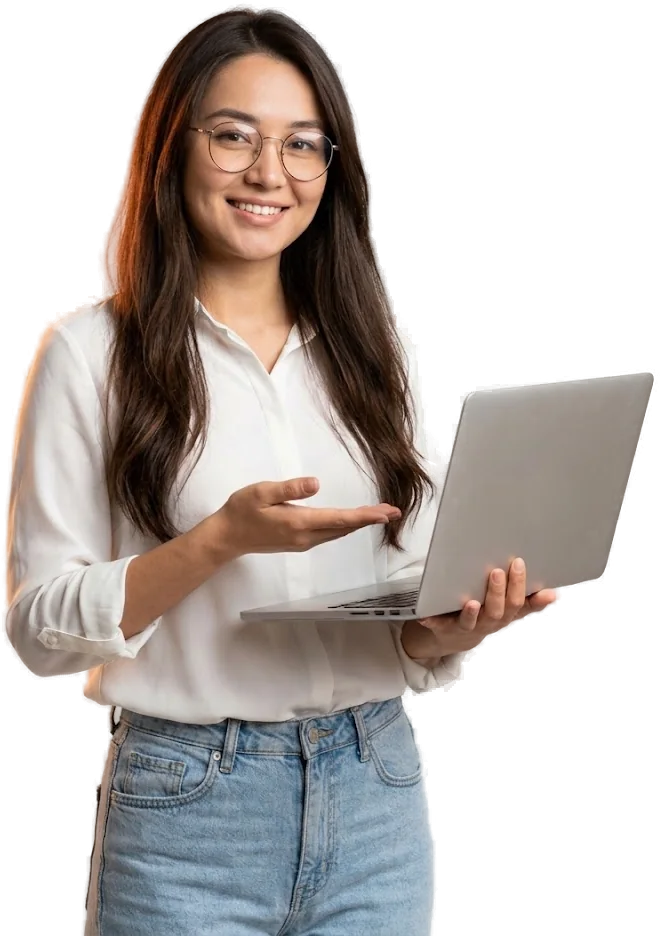
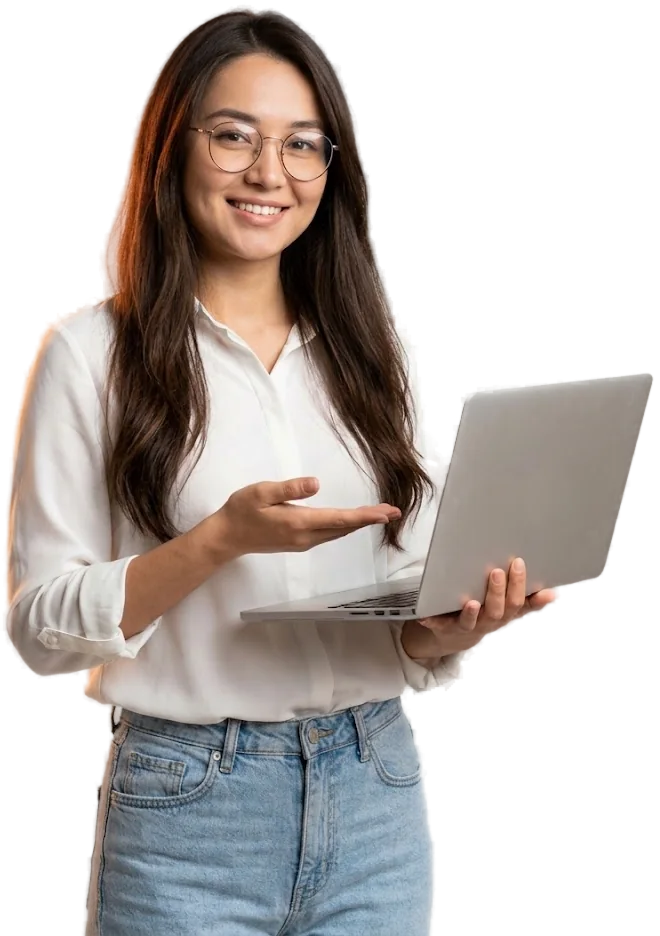
Tungi rejim: localStorage + head skript (flash-siz), AA tuzatishlari, eski sahifalar apelsin brendga
Claude-Session: https://claude.ai/code/session_01J31zVCzvuUTuogWdhEBF7M

diff --git a/src/app/globals.css b/src/app/globals.css
@@ -1,7 +1,7 @@
 @import "tailwindcss";
 
 /*
- * Dizayn tizimi: neytral asos + bitta urg'u rangi (brend teal), bitta burchak radiusi (8px).
+ * Eski dizayn tizimi: neytral asos + bitta urg'u rangi (endi apelsin, --ds-* bilan bir xil), bitta burchak radiusi (8px).
  * Yorug' rejim standart. Tungi rejim: tizim sozlamasi yoki data-theme="dark" (cookie orqali).
  * Barcha matn juftliklari WCAG AA (4.5:1) dan yuqori.
  */
@@ -13,9 +13,10 @@
   --foreground: #161716;
   --muted: #5f6b74;
   --border: #e3e3dd;
-  --brand: #0f766e;
-  --brand-strong: #0b5f58;
-  --brand-soft: #e3f1ef;
+  /* Eski sahifalar (kabinet, auth, admin) ham yangi apelsin brendga oʻtadi; oq matn bilan AA (5.6:1). */
+  --brand: #b4420e;
+  --brand-strong: #963709;
+  --brand-soft: #ffe8da;
   --brand-foreground: #ffffff;
 }
 
@@ -23,16 +24,16 @@
 @media (prefers-color-scheme: dark) {
   :root:not([data-theme="light"]) {
     color-scheme: dark;
-    --background: #111312;
+    --background: #0e1215;
     --surface: #171c20;
     --surface-muted: #1e2120;
     --foreground: #ecece8;
     --muted: #9aa5ad;
     --border: #2c2f2d;
-    --brand: #2dd4bf;
-    --brand-strong: #5eead4;
-    --brand-soft: #12332f;
-    --brand-foreground: #0b1513;
+    --brand: #ff7a3d;
+    --brand-strong: #ff9361;
+    --brand-soft: #3a2216;
+    --brand-foreground: #14232a;
 
     /* Ilova ichidagi holat ranglari tungi fonda o'qiladigan bo'lishi uchun. */
     --color-red-50: #2a1515;
@@ -64,16 +65,16 @@
 
 :root[data-theme="dark"] {
   color-scheme: dark;
-  --background: #111312;
+  --background: #0e1215;
   --surface: #171c20;
   --surface-muted: #1e2120;
   --foreground: #ecece8;
   --muted: #9aa5ad;
   --border: #2c2f2d;
-  --brand: #2dd4bf;
-  --brand-strong: #5eead4;
-  --brand-soft: #12332f;
-  --brand-foreground: #0b1513;
+  --brand: #ff7a3d;
+  --brand-strong: #ff9361;
+  --brand-soft: #3a2216;
+  --brand-foreground: #14232a;
 
   --color-red-50: #2a1515;
   --color-red-100: #3a1a1a;
@@ -204,7 +205,7 @@ body {
  *
  * Kontrast (WCAG AA) qarorlari:
  * - Oq matn #FF7A3D ustida 2.6:1, shuning uchun apelsin fondagi matn --on-primary (#14232A, 6.2:1).
- * - Oq fondagi apelsin matn uchun --primary-text (#C24A12, 4.9:1); tungi rejimda #FF7A3D (7.3:1).
+ * - Oq fondagi apelsin matn uchun --primary-text (#B4420E: oqda 5.6:1, yumshoq apelsin fonda 4.8:1); tungida #FF7A3D (7.3:1).
  * - Ikkilamchi matn #5F6B74: oq fonda 5.4:1, shaftoli fonda 5.0:1 (#6B7780 shaftolida 4.2:1 edi).
  *
  * Mavzu blok darajasida ham ishlaydi: data-theme="dark" yoki "light" istalgan elementga qoʻyilsa,
@@ -215,7 +216,7 @@ body {
   --ds-primary: #ff7a3d;
   --ds-primary-hover: #ff8f5c;
   --ds-on-primary: #14232a;
-  --ds-primary-text: #c24a12;
+  --ds-primary-text: #b4420e;
   --ds-primary-soft: #ffe8da;
   --ds-ink: #14232a;
   --ds-on-ink: #ffffff;
@@ -230,13 +231,14 @@ body {
   --ds-muted: #5f6b74;
   --ds-line: #ebe5df;
   --ds-violet: #7c5cff;
-  --ds-success: #15803d;
+  --ds-success: #13733a;
   --ds-success-soft: #e3f5e9;
-  --ds-warning: #a16207;
+  --ds-warning: #935a06;
   --ds-warning-soft: #fdf3d7;
   --ds-danger: #c2262b;
   --ds-danger-soft: #fde7e7;
   --ds-shadow-color: 20 35 42;
+  --ds-edge: transparent;
   --ds-glow: #ffd9c4;
 }
 
@@ -267,6 +269,7 @@ body {
     --ds-danger: #fca5a5;
     --ds-danger-soft: #3a1a1a;
     --ds-shadow-color: 0 0 0;
+    --ds-edge: rgb(255 255 255 / 0.06);
     --ds-glow: #4a2614;
   }
 }
@@ -298,6 +301,7 @@ body {
   --ds-danger: #fca5a5;
   --ds-danger-soft: #3a1a1a;
   --ds-shadow-color: 0 0 0;
+  --ds-edge: rgb(255 255 255 / 0.06);
   --ds-glow: #4a2614;
 }
 
@@ -340,11 +344,12 @@ body {
   --color-glow: var(--ds-glow);
 
   /* Yumshoq, past kontrastli soyalar. */
+  /* Tungi rejimda qora soya koʻrinmaydi: oʻrniga 1px yorugʻ chegara (--ds-edge) kartani ajratadi. */
   --shadow-soft:
-    0 1px 2px rgb(var(--ds-shadow-color) / 0.04),
+    0 0 0 1px var(--ds-edge), 0 1px 2px rgb(var(--ds-shadow-color) / 0.04),
     0 8px 24px -8px rgb(var(--ds-shadow-color) / 0.1);
   --shadow-float:
-    0 2px 6px rgb(var(--ds-shadow-color) / 0.05),
+    0 0 0 1px var(--ds-edge), 0 2px 6px rgb(var(--ds-shadow-color) / 0.05),
     0 24px 48px -16px rgb(var(--ds-shadow-color) / 0.18);
   --shadow-primary: 0 12px 28px -10px rgb(255 122 61 / 0.55);
 

diff --git a/src/app/[locale]/layout.tsx b/src/app/[locale]/layout.tsx
@@ -3,7 +3,7 @@ import "@fontsource-variable/source-serif-4";
 import "@fontsource-variable/inter";
 import "../globals.css";
 
-import type { Metadata } from "next";
+import type { Metadata, Viewport } from "next";
 import { cookies } from "next/headers";
 import { notFound } from "next/navigation";
 import { hasLocale } from "next-intl";
@@ -12,7 +12,7 @@ import { SiteFooter } from "@/components/site-footer";
 import { SiteHeader } from "@/components/site-header";
 import { ClientMessages } from "@/i18n/client-messages";
 import { routing } from "@/i18n/routing";
-import { THEME_COOKIE, parseTheme } from "@/lib/theme";
+import { THEME_COOKIE, THEME_INIT_SCRIPT, parseTheme } from "@/lib/theme";
 
 type Props = {
   children: React.ReactNode;
@@ -22,6 +22,14 @@ type Props = {
 export function generateStaticParams() {
   return routing.locales.map((locale) => ({ locale }));
 }
+
+export const viewport: Viewport = {
+  colorScheme: "light dark",
+  themeColor: [
+    { media: "(prefers-color-scheme: light)", color: "#ffffff" },
+    { media: "(prefers-color-scheme: dark)", color: "#0e1215" },
+  ],
+};
 
 export async function generateMetadata({ params }: Props): Promise<Metadata> {
   const { locale } = await params;
@@ -40,7 +48,12 @@ export default async function LocaleLayout({ children, params }: Props) {
   const theme = parseTheme((await cookies()).get(THEME_COOKIE)?.value);
 
   return (
-    <html lang={locale} data-theme={theme}>
+    // suppressHydrationWarning: <head> dagi skript data-theme ni React dan oldin oʻzgartirishi mumkin.
+    <html lang={locale} data-theme={theme} suppressHydrationWarning>
+      <head>
+        {/* Saqlangan rejim birinchi chizishdan oldin qoʻyiladi: miltillash yoʻq. */}
+        <script dangerouslySetInnerHTML={{ __html: THEME_INIT_SCRIPT }} />
+      </head>
       <body className="flex min-h-screen flex-col font-sans antialiased">
         <ClientMessages namespaces={[]}>
           <SiteHeader />

diff --git a/src/lib/theme.ts b/src/lib/theme.ts
@@ -1,8 +1,32 @@
-/** Rejim (yorug'/tungi) cookie si. Qiymat yo'q bo'lsa tizim sozlamasi ishlatiladi. */
+/**
+ * Rejim (yorugʻ/tungi). Tanlov ikki joyda saqlanadi:
+ * - localStorage (`THEME_STORAGE_KEY`): asosiy manba, <head> dagi skript birinchi chizishdan oldin oʻqiydi;
+ * - cookie (`THEME_COOKIE`): server HTML ga data-theme ni oldindan qoʻyadi (localStorage bloklangan boʻlsa ham miltillamaydi).
+ * Qiymat yoʻq boʻlsa tizim sozlamasi (prefers-color-scheme) CSS orqali ishlaydi.
+ */
 export const THEME_COOKIE = "theme";
+export const THEME_STORAGE_KEY = "jumis-theme";
 
 export type Theme = "light" | "dark";
 
-export function parseTheme(value: string | undefined): Theme | undefined {
+export function parseTheme(
+  value: string | null | undefined,
+): Theme | undefined {
   return value === "light" || value === "dark" ? value : undefined;
+}
+
+/** <head> ga qoʻyiladigan kichik skript: sahifa chizilishidan oldin saqlangan rejimni qoʻyadi. */
+export const THEME_INIT_SCRIPT = `(function(){try{var t=localStorage.getItem(${JSON.stringify(THEME_STORAGE_KEY)});if(t!=="light"&&t!=="dark")return;var r=document.documentElement;r.setAttribute("data-theme",t);r.style.colorScheme=t}catch(e){}})();`;
+
+/** Tanlangan rejimni qoʻllaydi va saqlaydi. localStorage ishlamasa (yashirin rejim, bloklangan) cookie yetarli. */
+export function applyTheme(theme: Theme) {
+  const root = document.documentElement;
+  root.dataset.theme = theme;
+  root.style.colorScheme = theme;
+  try {
+    localStorage.setItem(THEME_STORAGE_KEY, theme);
+  } catch {
+    // localStorage mavjud emas: faqat cookie.
+  }
+  document.cookie = `${THEME_COOKIE}=${theme}; path=/; max-age=31536000; samesite=lax`;
 }

diff --git a/src/components/theme-toggle.tsx b/src/components/theme-toggle.tsx
@@ -1,6 +1,12 @@
 "use client";
 
-import { THEME_COOKIE, type Theme } from "@/lib/theme";
+import { useEffect } from "react";
+import {
+  THEME_STORAGE_KEY,
+  applyTheme,
+  parseTheme,
+  type Theme,
+} from "@/lib/theme";
 
 /** `className` berilsa standart koʻrinish oʻrniga ishlatiladi. */
 type Props = { toDark: string; toLight: string; className?: string };
@@ -13,12 +19,25 @@ function currentTheme(): Theme {
     : "light";
 }
 
-/** Yorug'/tungi rejimni almashtiradi va tanlovni bir yilga cookie da saqlaydi. */
+/** Yorugʻ/tungi rejimni almashtiradi; tanlov localStorage va cookie da saqlanadi (`applyTheme`). */
 export function ThemeToggle({ toDark, toLight, className }: Props) {
+  // Boshqa oynada rejim almashsa, shu oyna ham ergashadi.
+  useEffect(() => {
+    const onStorage = (e: StorageEvent) => {
+      const theme =
+        e.key === THEME_STORAGE_KEY ? parseTheme(e.newValue) : undefined;
+      if (theme) {
+        document.documentElement.dataset.theme = theme;
+        document.documentElement.style.colorScheme = theme;
+      }
+    };
+    window.addEventListener("storage", onStorage);
+    return () => window.removeEventListener("storage", onStorage);
+  }, []);
+
   function onClick() {
     const next: Theme = currentTheme() === "dark" ? "light" : "dark";
-    document.documentElement.dataset.theme = next;
-    document.cookie = `${THEME_COOKIE}=${next}; path=/; max-age=31536000; samesite=lax`;
+    applyTheme(next);
   }
 
   return (

diff --git a/src/app/[locale]/design-system/page.tsx b/src/app/[locale]/design-system/page.tsx
@@ -95,7 +95,7 @@ const SWATCHES = [
 // Yorugʻ / tungi qiymatlar (globals.css bilan bir xil). Namuna jadvali uchun.
 const HEX: Record<(typeof SWATCHES)[number]["key"], [string, string]> = {
   primary: ["#FF7A3D", "#FF7A3D"],
-  primaryText: ["#C24A12", "#FF7A3D"],
+  primaryText: ["#B4420E", "#FF7A3D"],
   primarySoft: ["#FFE8DA", "#3A2216"],
   ink: ["#14232A", "#F2F4F5"],
   night: ["#14232A", "#080B0D"],
@@ -107,8 +107,8 @@ const HEX: Record<(typeof SWATCHES)[number]["key"], [string, string]> = {
   muted: ["#5F6B74", "#9AA5AD"],
   line: ["#EBE5DF", "#273038"],
   violet: ["#7C5CFF", "#8F74FF"],
-  success: ["#15803D", "#6EE7A0"],
-  warning: ["#A16207", "#FCD34D"],
+  success: ["#13733A", "#6EE7A0"],
+  warning: ["#935A06", "#FCD34D"],
   danger: ["#C2262B", "#FCA5A5"],
 };
 

diff --git a/CLAUDE.md b/CLAUDE.md
@@ -194,7 +194,7 @@ tests/                 Vitest integratsiya testlari
 
 - Namuna sahifa: `/{locale}/design-system` (noindex). Komponentlar: `src/components/ds/` (button, card, input, badge, avatar, floating-card, decor, icons, logo).
 - Tokenlar `globals.css` oxirida (`--ds-*`), Tailwind nomlari: `bg-primary`, `text-on-primary`, `text-primary-text`, `bg-ink`, `bg-night`, `bg-peach`, `bg-canvas`, `bg-card`, `text-subtle`, `border-line`, `rounded-btn|field|card|panel`, `shadow-soft|float|primary`, `text-display|h1|h2|h3|lead|caption`, `page-x`.
-- Apelsin (#FF7A3D) fonda matn faqat toʻq (`text-on-primary`): oq matn 2.6:1, AA dan oʻtmaydi. Oq fondagi apelsin matn: `text-primary-text`.
+- Apelsin (#FF7A3D) fonda matn faqat toʻq (`text-on-primary`): oq matn 2.6:1, AA dan oʻtmaydi. Oq fondagi apelsin matn: `text-primary-text` (#B4420E). Tanlangan rejim: `lib/theme.ts` (localStorage + cookie, `<head>` dagi skript).
 - Binafsha faqat dekor shakllarda. Shrift: Inter (ʻ U+02BB, qoraqalpoq va kirill harflari bor; Plus Jakarta Sans va Outfit da yoʻq).
 - Eski sahifalar hozircha eski tokenlarda; har bir sahifa qayta yigʻilganda `ds` komponentlariga oʻtadi.
 - Bosh sahifa `src/components/landing/` dan yigʻiladi (hero, partners, features, categories, profile, testimonials). Header va footer (`site-header.tsx`, `site-footer.tsx`) shu uslubda, hamma sahifada. Aloqa maʼlumotlari faqat `src/lib/site.ts` da. Rasmlar `public/images/*.webp`. Statistika va fikrlar placeholder: `TODO: real maʼlumot`.
